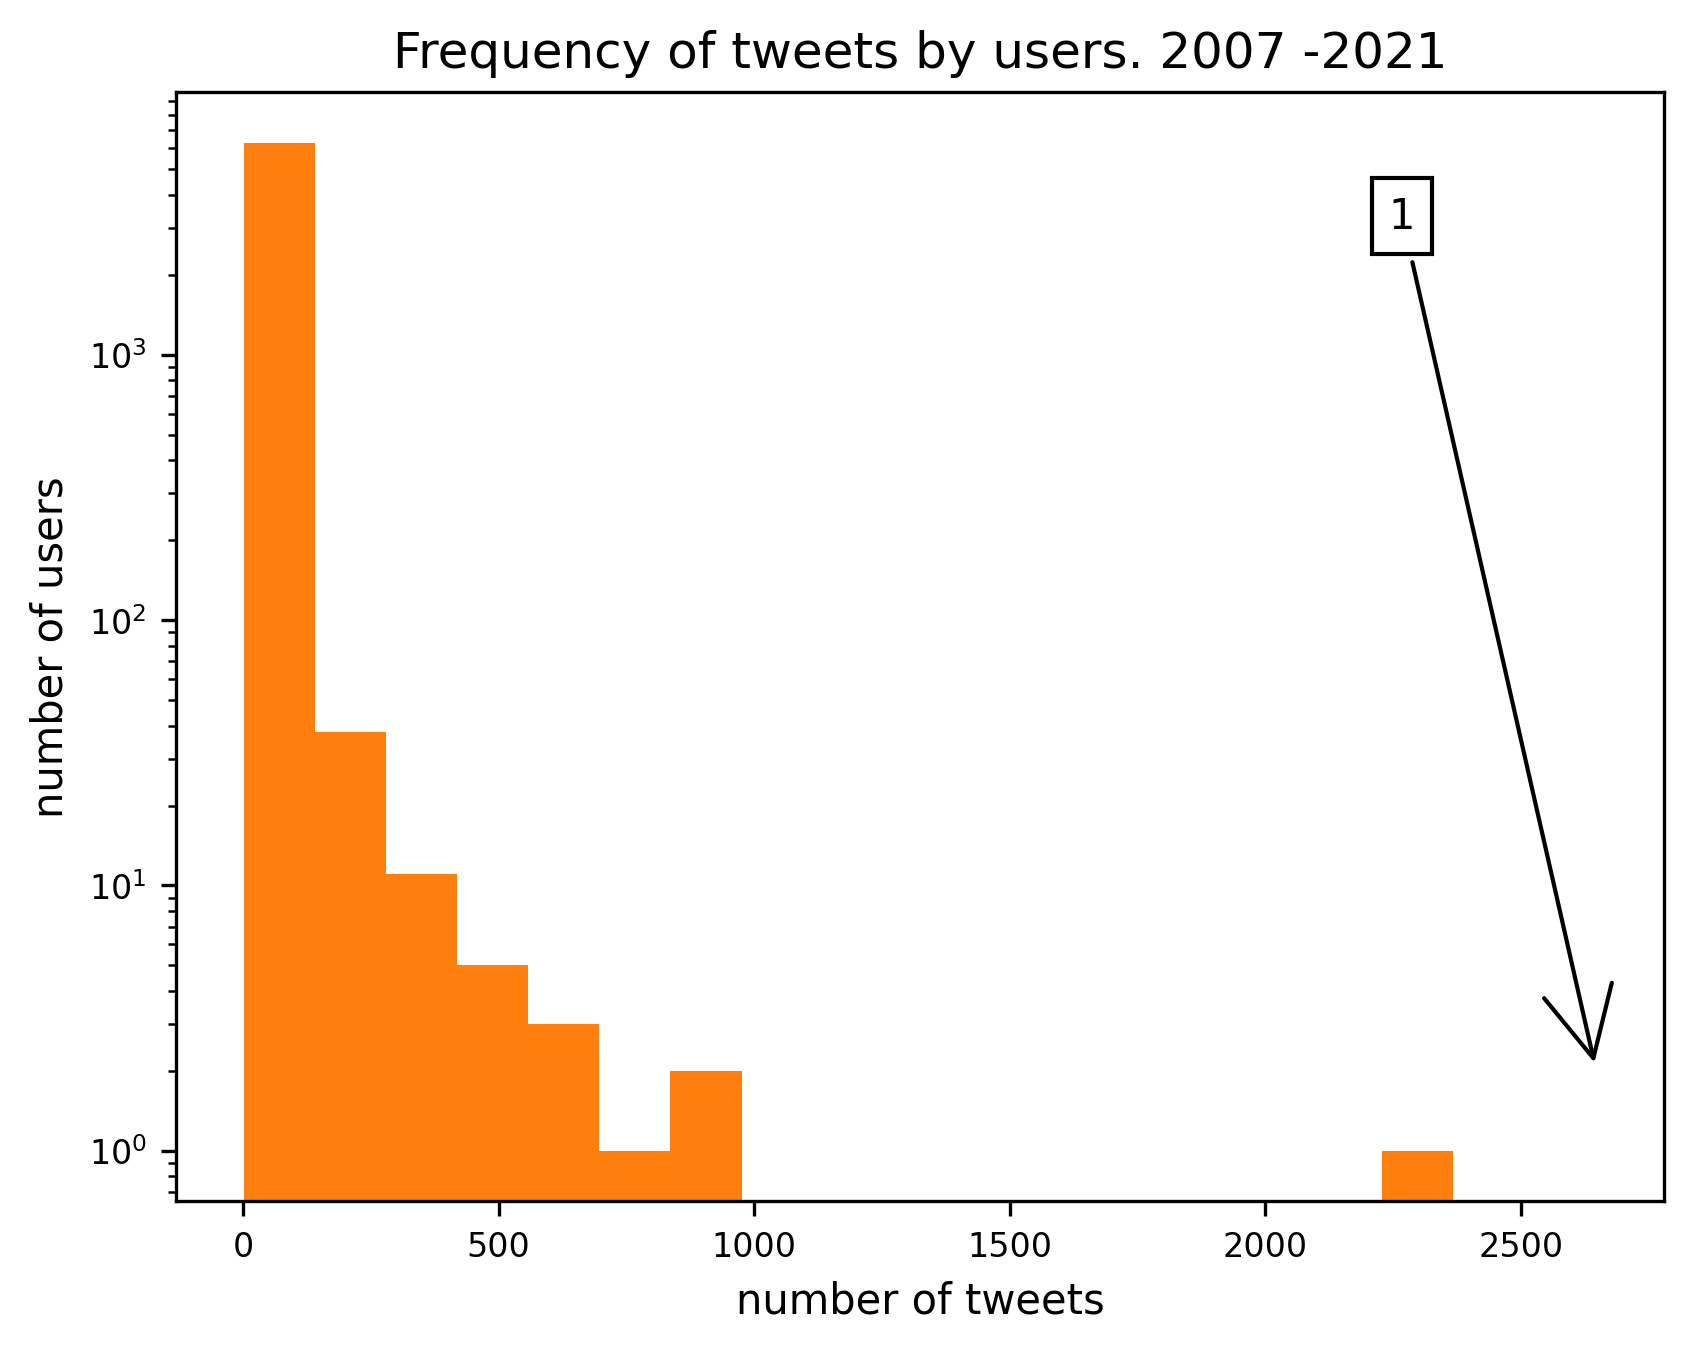
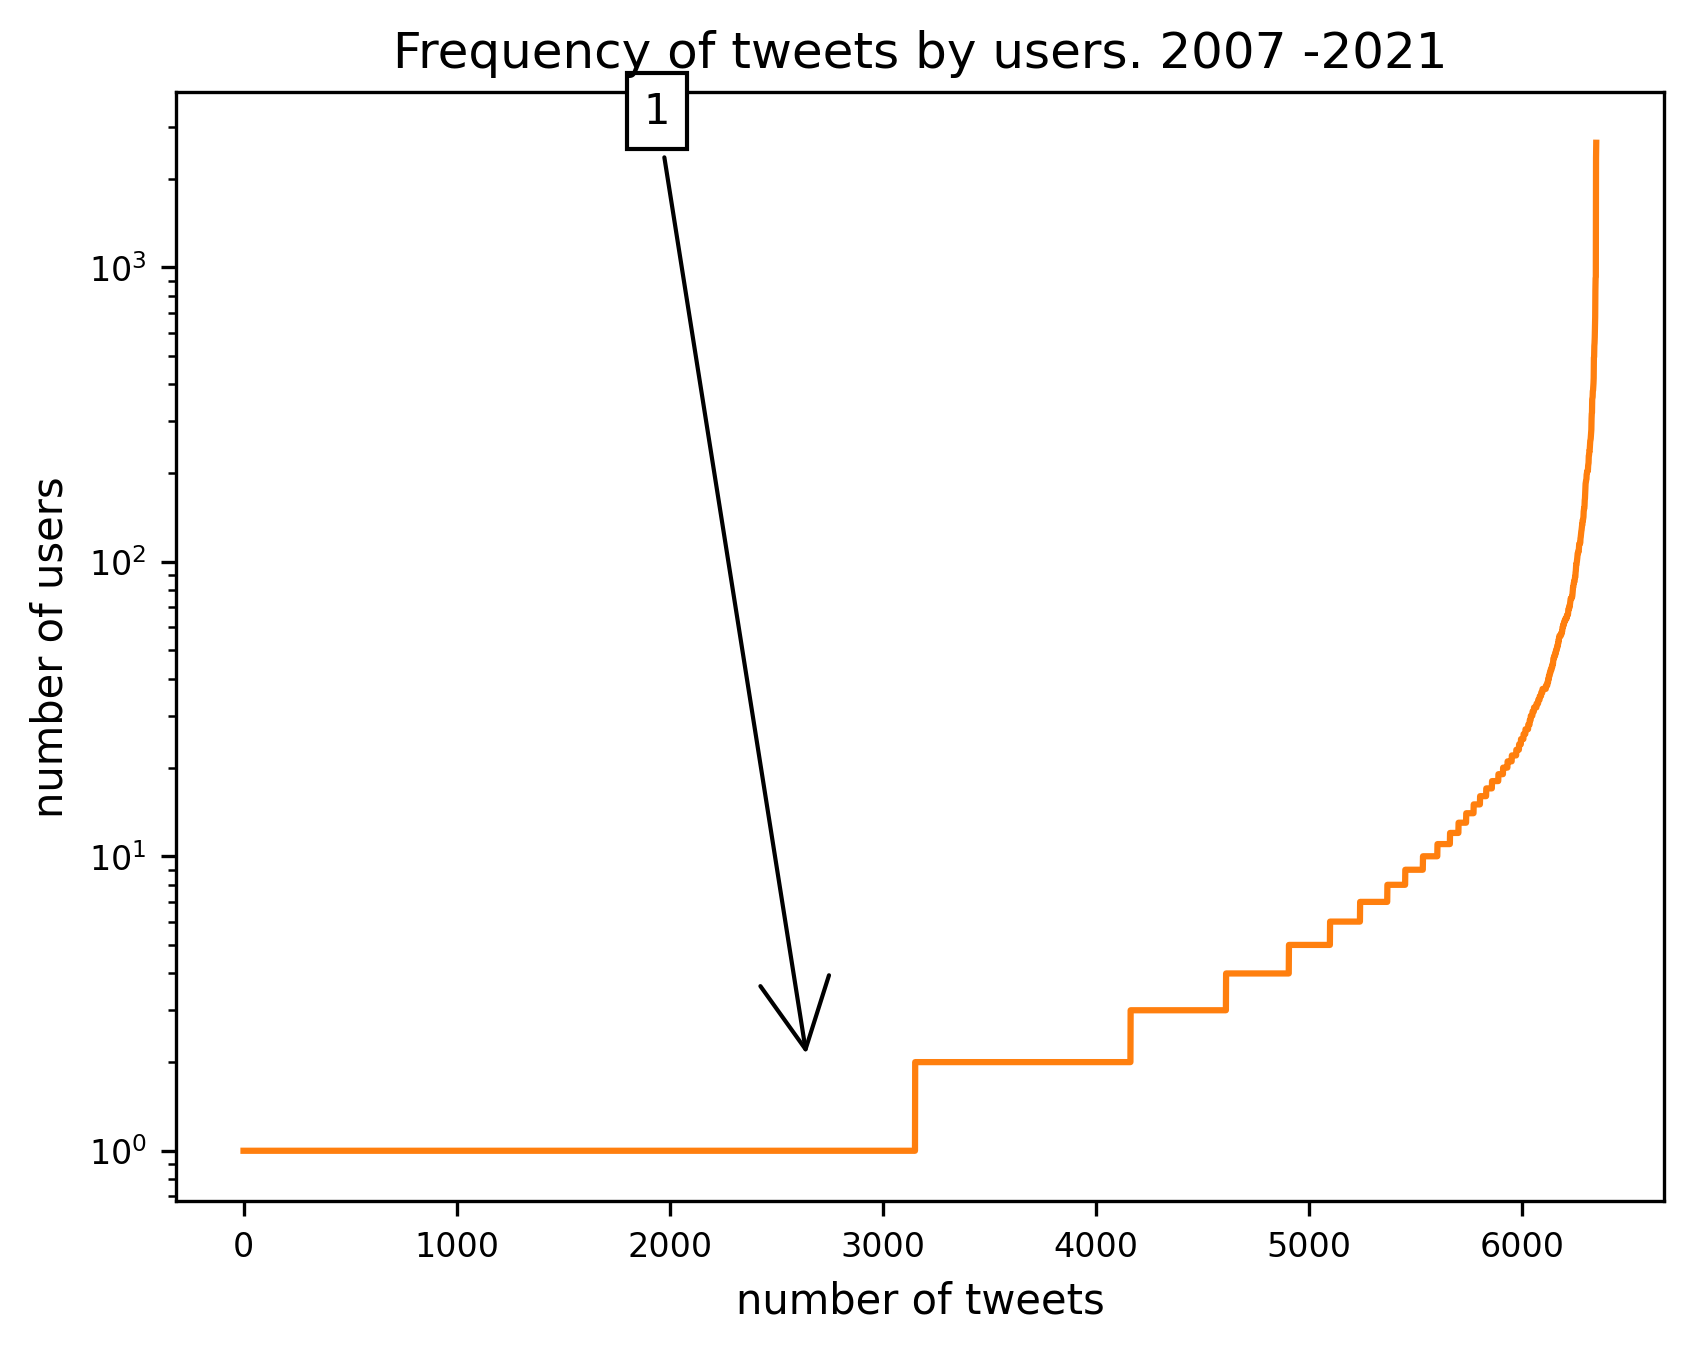
fig update again

diff --git a/data/anon_identifier.py b/data/anon_identifier.py
@@ -75,8 +75,8 @@ def anonymizer():
                         box_alignment = (5, 1),
                         arrowprops = dict(arrowstyle='->'))
                 
-
-    ax.hist(tweet_occurances.values() , bins = np.linspace(1, max_number_of_tweets-2, 20))
+    ax.plot(sorted_tweet_occurances.values())
+    #ax.hist(tweet_occurances.values() , bins = np.linspace(1, max_number_of_tweets-2, 20))
     plt.yscale('log')
     plt.xscale('linear')
     plt.ylabel('number of users')
